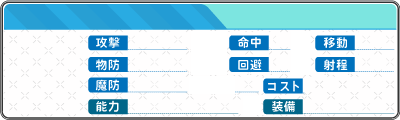
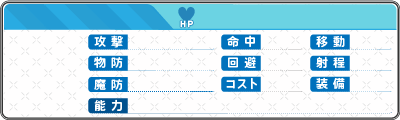
no message

diff --git a/js/class/Panel.class.js b/js/class/Panel.class.js
@@ -46,6 +46,7 @@ Panel = (function() {
 
     draw(level = null) {
       $(this.divObject).find('*').remove();
+      this.divObject.removeClass('panel_character panel_enemy panel_presentbox');
       if (this.object !== null) {
         this.drawCommon(level);
         if (this.object.isCharacterObject()) {
@@ -53,7 +54,7 @@ Panel = (function() {
         } else if (this.object.isEnemyObject()) {
           return this.drawEnemy();
         } else if (this.object.isPresentboxObject()) {
-          return this.drawEnemy();
+          return this.drawPresentbox();
         }
       } else {
         return this.clear();
@@ -96,70 +97,77 @@ Panel = (function() {
       $(this.divObject).append($('<div>').addClass('field field_attack ' + (this.object.getAttackType() === '物理' ? 'field_attack_physic' : 'field_attack_magic')).css({
         top: 30,
         left: 130,
-        width: 90,
+        width: 80,
         height: 20
       }).html(ObjectBase.status2html(this.object.getAttack(level))));
       // 物理防御力
       $(this.divObject).append($('<div>').addClass('field field_pdef').css({
         top: 51,
         left: 130,
-        width: 90,
+        width: 80,
         height: 20
       }).html(ObjectBase.status2html(this.object.getPDef(level))));
       // 魔法防御力
       $(this.divObject).append($('<div>').addClass('field field_mdef').css({
         top: 71,
         left: 130,
-        width: 90,
+        width: 80,
         height: 20
       }).html(ObjectBase.status2html(this.object.getMDef(level))));
       // HP
       $(this.divObject).append($('<div>').addClass('field field_hp').css({
-        top: 7,
-        left: 220,
-        width: 80,
+        top: 6,
+        left: 200,
+        width: 85,
         height: 20
       }).html(ObjectBase.status2html(this.object.getHp())));
+      // HP/
+      $(this.divObject).append($('<div>').addClass('label label_hp_split').css({
+        top: 7,
+        left: 280,
+        width: 20,
+        height: 20
+      }).html('/'));
       // HP最大
       $(this.divObject).append($('<div>').addClass('field field_hp_max').css({
-        top: 7,
-        left: 305,
-        width: 80,
+        top: 6,
+        left: 300,
+        width: 85,
         height: 20
       }).html(ObjectBase.status2html(this.object.getHpMax(level))));
       // 命中率
       $(this.divObject).append($('<div>').addClass('field field_hit_rate').css({
         top: 30,
-        left: 280,
-        width: 25,
+        left: 260,
+        width: 35,
         height: 20
       }).html(ObjectBase.status2html(this.object.getHitRate())));
       // 回避率
       $(this.divObject).append($('<div>').addClass('field field_dodge_rate').css({
         top: 51,
-        left: 280,
-        width: 25,
+        left: 260,
+        width: 35,
         height: 20
       }).html(ObjectBase.status2html(this.object.getDodgeRate())));
       // 移動力
       $(this.divObject).append($('<div>').addClass('field field_move').css({
         top: 30,
-        left: 360,
-        width: 20,
+        left: 350,
+        width: 30,
         height: 20
       }).html(ObjectBase.status2html(this.object.getMove())));
       // 射程
       $(this.divObject).append($('<div>').addClass('field field_range').css({
         top: 50,
-        left: 360,
-        width: 20,
+        left: 350,
+        width: 30,
         height: 20
       }).html(this.object.getRange()));
       // 能力
       return $(this.divObject).append($('<div>').addClass('field field_ability').css({
         top: 93,
         left: 130,
-        width: 100,
+        width: 250,
         height: 20,
         'text-align': 'left'
       }).html(this.object.getAbilityName()).tooltip({
@@ -187,7 +195,10 @@ Panel = (function() {
       return this.divObject.addClass('panel_enemy');
     }
 
-    drawPresentbox() {}
+    drawPresentbox() {
+      // 背景用
+      return this.divObject.addClass('panel_presentbox');
+    }
 
     clear() {
       return $(this.divObject).find('*').remove();

diff --git a/css/index.css b/css/index.css
@@ -1,4 +1,5 @@
-@import url('https://fonts.googleapis.com/css?family=Archivo+Narrow');
+@import url('https://fonts.googleapis.com/css?family=Roboto+Mono:700');
+@import url(http://fonts.googleapis.com/earlyaccess/notosansjp.css);
 
 * {
   -webkit-user-select: none;  /* Chrome or Safari */
@@ -174,13 +175,24 @@ input[type="range"]::-webkit-slider-thumb:active {
   line-height: 20px;
   font-size: 16px;
   text-align: right;
-  font-family:'Archivo Narrow', "Rounded Mplus 1c";
+  font-family: 'Roboto Mono', 'Noto Sans JP', monospace;
+  font-weight:700;
+  color: #000000;
+}
+.label_hp_split {
+  line-height: 12px;
+  text-align: center;
+  font-size: 16px;
+  color: #000000;
 }
 .panel.panel_character {
   background-image: url('../img/panel/character_with_label.png');
 }
 .panel.panel_enemy {
   background-image: url('../img/panel/enemy_with_label.png');
+}
+.panel.panel_presentbox {
+  background-image: url('../img/panel/presentbox_with_label.png');
 }
 .field_attack_physic {
   color: #000000;
@@ -189,8 +201,16 @@ input[type="range"]::-webkit-slider-thumb:active {
   color: #00d8d8;
 }
 .field.field_hp, .field.field_hp_max {
-  font-size: 18px;
-  background-color: #ffffff;
+  font-size: 20px;
+}
+.panel_character .field.field_hp, .panel_character .field.field_hp_max {
+  color: #0000ff;
+}
+.panel_enemy .field.field_hp, .panel_enemy .field.field_hp_max {
+  color: #ff0000;
+}
+.panel_presentbox .field.field_hp, .panel_presentbox .field.field_hp_max {
+  color: #333333;
 }
 .field.field_level {
   font-style: oblique;

diff --git a/index.html b/index.html
@@ -19,6 +19,7 @@
 <script src="https://cdnjs.cloudflare.com/ajax/libs/flat-ui/2.3.0/js/flat-ui.min.js"></script>
 
 <link href="https://fonts.googleapis.com/earlyaccess/roundedmplus1c.css" rel="stylesheet" />
+
 <!-- my_js_start -->
 <script src="./js/class/ObjectBase.class.js"></script>
 <script src="./js/class/BattleResultManager.class.js"></script>
